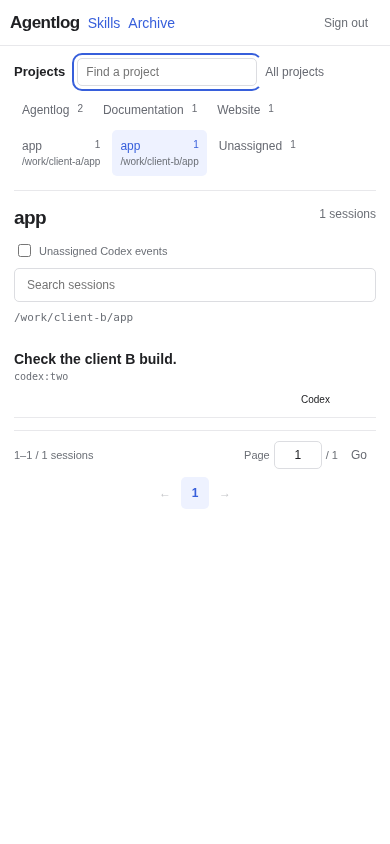
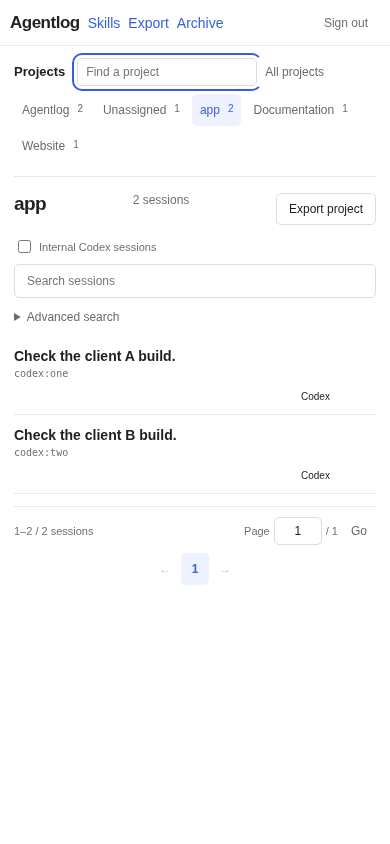
test: 同名プロジェクトの旧版DB移行と画面・出力を確認

diff --git a/scripts/project_grouping_test.py b/scripts/project_grouping_test.py
@@ -1,0 +1,133 @@
+#!/usr/bin/env python3
+"""Merge a real old DB's 41 named + 6 directory sessions, then test the UI."""
+import hashlib
+import json
+import os
+import socket
+import sqlite3
+import subprocess
+import tempfile
+import time
+import urllib.parse
+import urllib.request
+import zipfile
+
+from playwright.sync_api import sync_playwright, expect
+from test_support import settled_urlopen, wait_for_ingestion
+
+TOKEN = 'synthetic-project-name-grouping-token'
+BINARY = os.getenv('AGENTLOG_BIN', './agentlog')
+BASELINE = os.getenv('AGENTLOG_BASELINE_BIN')
+
+
+def attrs(values):
+    return [{'key': key, 'value': {'stringValue': value}} for key, value in values.items()]
+
+
+with tempfile.TemporaryDirectory() as directory:
+    database = directory + '/test.db'
+    with socket.socket() as sock:
+        sock.bind(('127.0.0.1', 0))
+        port = sock.getsockname()[1]
+    base = f'http://127.0.0.1:{port}'
+
+    def start(binary):
+        process = subprocess.Popen([binary, '--db', database, '--listen', f'127.0.0.1:{port}'],
+            env={**os.environ, 'AGENTLOG_TOKEN': TOKEN}, stdout=subprocess.DEVNULL, stderr=subprocess.DEVNULL)
+        for _ in range(1000):
+            try:
+                urllib.request.urlopen(base, timeout=1).close()
+                wait_for_ingestion(base, TOKEN)
+                return process
+            except OSError:
+                assert process.poll() is None, 'Server exited'
+                time.sleep(.02)
+        raise RuntimeError('Server did not start')
+
+    def api(path, body=None):
+        req = urllib.request.Request(base + path, json.dumps(body).encode() if body is not None else None,
+            headers={'Authorization': 'Bearer ' + TOKEN, 'Content-Type': 'application/json'})
+        with settled_urlopen(req, timeout=30) as response:
+            return json.load(response)
+
+    def fingerprint():
+        digest = hashlib.sha256()
+        with sqlite3.connect('file:' + database + '?mode=ro', uri=True) as db:
+            for row in db.execute('SELECT id,session,raw FROM events ORDER BY id'):
+                for value in row:
+                    digest.update(value if isinstance(value, bytes) else value.encode())
+        return digest.hexdigest()
+
+    old = start(BASELINE or BINARY)
+    try:
+        resources = []
+        for kind, count, metadata in [('named', 41, {'service.namespace': 'shop'}), ('directory', 6, {'cwd': '/workspaces/shop'})]:
+            records = []
+            for i in range(count):
+                records.append({'eventName': 'codex.user_prompt', 'timeUnixNano': str(1794744249000000000 + i),
+                    'attributes': attrs({'session.id': f'{kind}-{i}', 'prompt': 'hello'})})
+            records.append({'eventName': 'codex.skill_invocation', 'timeUnixNano': '1794744249000000100',
+                'attributes': attrs({'session.id': kind + '-0', 'skill.name': 'review', 'turn.id': 'one'})})
+            resources.append({'resource': {'attributes': attrs({'service.name': 'codex', **metadata})},
+                              'scopeLogs': [{'logRecords': records}]})
+        api('/v1/logs', {'resourceLogs': resources})
+        if BASELINE:
+            assert api('/api/projects')['total'] == 2
+        original = fingerprint()
+    finally:
+        old.terminate()
+        old.wait(timeout=20)
+    current = start(BINARY)
+    try:
+        groups = api('/api/projects')
+        assert groups['total'] == 1 and groups['sessions'] == 47
+        assert groups['projects'][0]['id'] == 'name:shop' and groups['projects'][0]['count'] == 47
+        assert len(api('/api/sessions?project=name:shop')) == 47
+        assert len(api('/api/sessions?project=path:/workspaces/shop')) == 47
+        assert api('/api/skills?project=name:shop')['uses'] == 2
+        assert api('/api/skills?project=path:/workspaces/shop&q=review')['uses'] == 2
+        assert fingerprint() == original
+        with sqlite3.connect('file:' + database + '?mode=ro', uri=True) as db:
+            ledger = db.execute('SELECT version,checksum,applied_at FROM schema_migrations ORDER BY version').fetchall()
+            assert db.execute('PRAGMA foreign_key_check').fetchall() == []
+        with sync_playwright() as p:
+            browser = p.chromium.launch(executable_path='/usr/bin/chromium', headless=True, args=['--no-sandbox'])
+            page = browser.new_page(viewport={'width': 1440, 'height': 900})
+            errors = []
+            page.on('pageerror', lambda e: errors.append(str(e)))
+            page.goto(base + '/?' + urllib.parse.urlencode({'project': 'path:/workspaces/shop'}))
+            page.locator('#token').fill(TOKEN)
+            page.locator('#loginform button').click()
+            expect(page.locator('.session')).to_have_count(47)
+            expect(page.locator('#projectlist button')).to_have_count(1)
+            expect(page.locator('#projectlist button small')).to_have_text('47')
+            expect(page.locator('[data-project="name:shop"]')).to_have_attribute('aria-current', 'true')
+            assert urllib.parse.parse_qs(urllib.parse.urlsplit(page.url).query)['project'] == ['name:shop']
+            page.locator('#projectexport').click()
+            expect(page.locator('.session')).to_have_count(47)
+            with page.expect_download() as pending:
+                page.locator('#downloadexport').click()
+            with zipfile.ZipFile(pending.value.path()) as archive:
+                manifest = json.loads(archive.read('manifest.json'))
+                events = archive.read('events.jsonl').splitlines()
+            assert manifest['sessions'] == 47 and manifest['records'] == len(events) == 49
+            assert manifest['filters']['project'] == 'name:shop'
+            if os.getenv('AGENTLOG_SCREENSHOT'):
+                page.screenshot(path=os.environ['AGENTLOG_SCREENSHOT'], full_page=True)
+            page.set_viewport_size({'width': 390, 'height': 844})
+            assert page.evaluate('document.documentElement.scrollWidth <= innerWidth')
+            assert not errors, errors
+            browser.close()
+    finally:
+        current.terminate()
+        current.wait(timeout=20)
+    restarted = start(BINARY)
+    try:
+        assert api('/api/projects')['projects'][0]['count'] == 47
+        assert fingerprint() == original
+        with sqlite3.connect('file:' + database + '?mode=ro', uri=True) as db:
+            assert db.execute('SELECT version,checksum,applied_at FROM schema_migrations ORDER BY version').fetchall() == ledger
+    finally:
+        restarted.terminate()
+        restarted.wait(timeout=20)
+print('PASS: 41 named + 6 directory sessions merge into one project; old DB/URLs, skills, ZIP export, original records, mobile and restart verified')

diff --git a/docs/projects.md b/docs/projects.md
@@ -7,7 +7,9 @@
 
 The session search page keeps projects in a persistent sidebar, ordered by their most recent session activity. Click a project to filter sessions; text search and agent filters apply within that selection. Projects have their own search. Selection is saved in the URL and restored when returning from a session.
 
-Explicit `service.namespace` / `project.name` labels define a project. Without a label, an actual exported working directory defines the group (full paths are distinct even if their last directory names match). Sessions with neither appear under **Unassigned**. Paths mentioned in prompts or tool arguments are never used to guess a project. Explicit names intentionally combine different directories or hosts.
+Projects are grouped by name. Agentlog uses an explicit `service.namespace` / `project.name` label when present; otherwise it uses the final directory name from the exported working directory. For example, the label `shop`, `/workspaces/shop` and `/home/user/shop` all belong to the same project. Windows and POSIX directory separators are supported. Names match exactly, including case. Sessions with neither a label nor a working directory appear under **Unassigned**. Paths mentioned in prompts or tool arguments are never used to guess a project.
+
+The same name groups session search, project counts, skills and exports. The original working directory remains available in session details and folder-based archives. Existing cached project groups are merged once by a versioned migration without re-reading raw event histories. Older `project=path:…` selections resolve to the new name group, so open pages and saved links do not recreate duplicate entries.
 
 Resource attributes appear in the session header and inspector. Project names and tags are included in session search.
 
